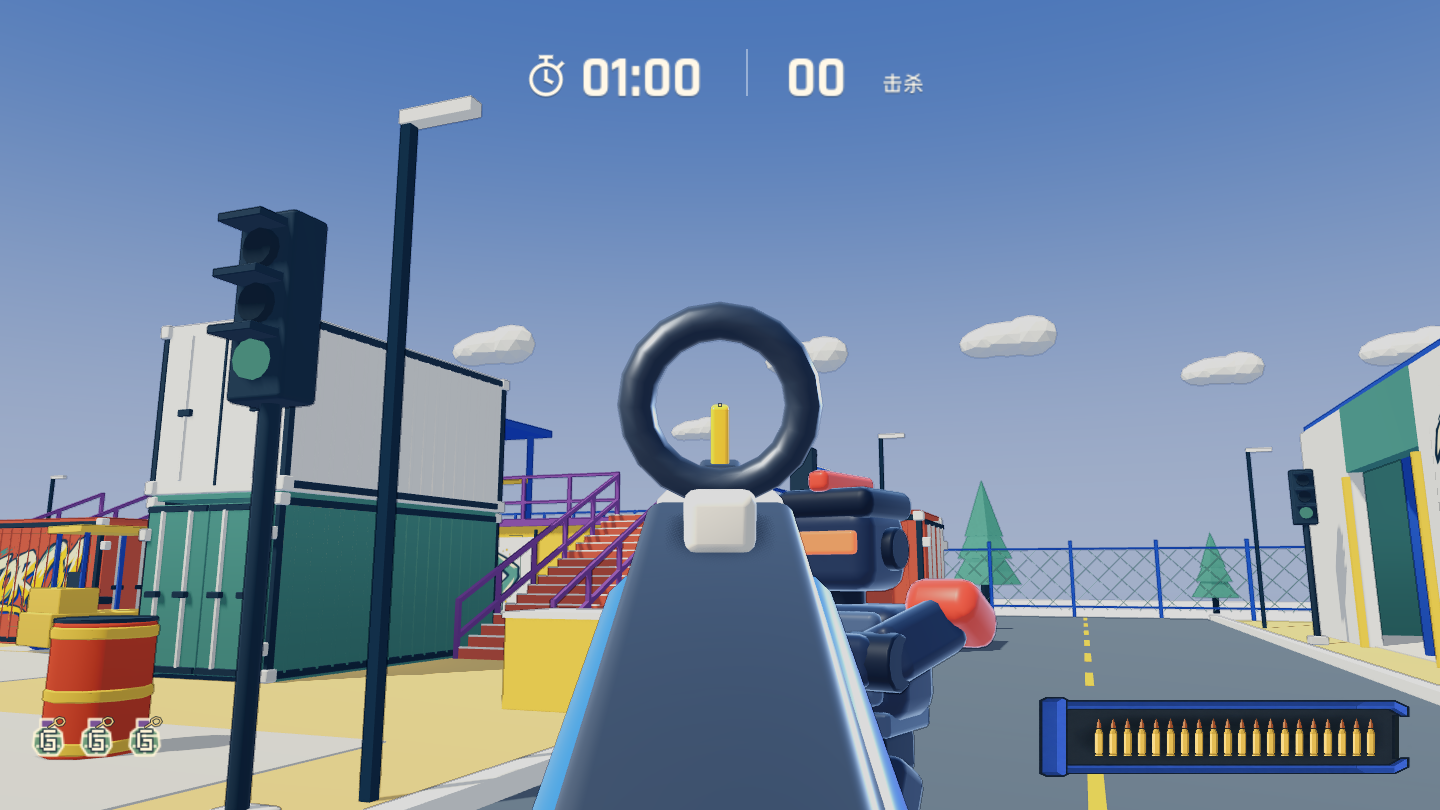
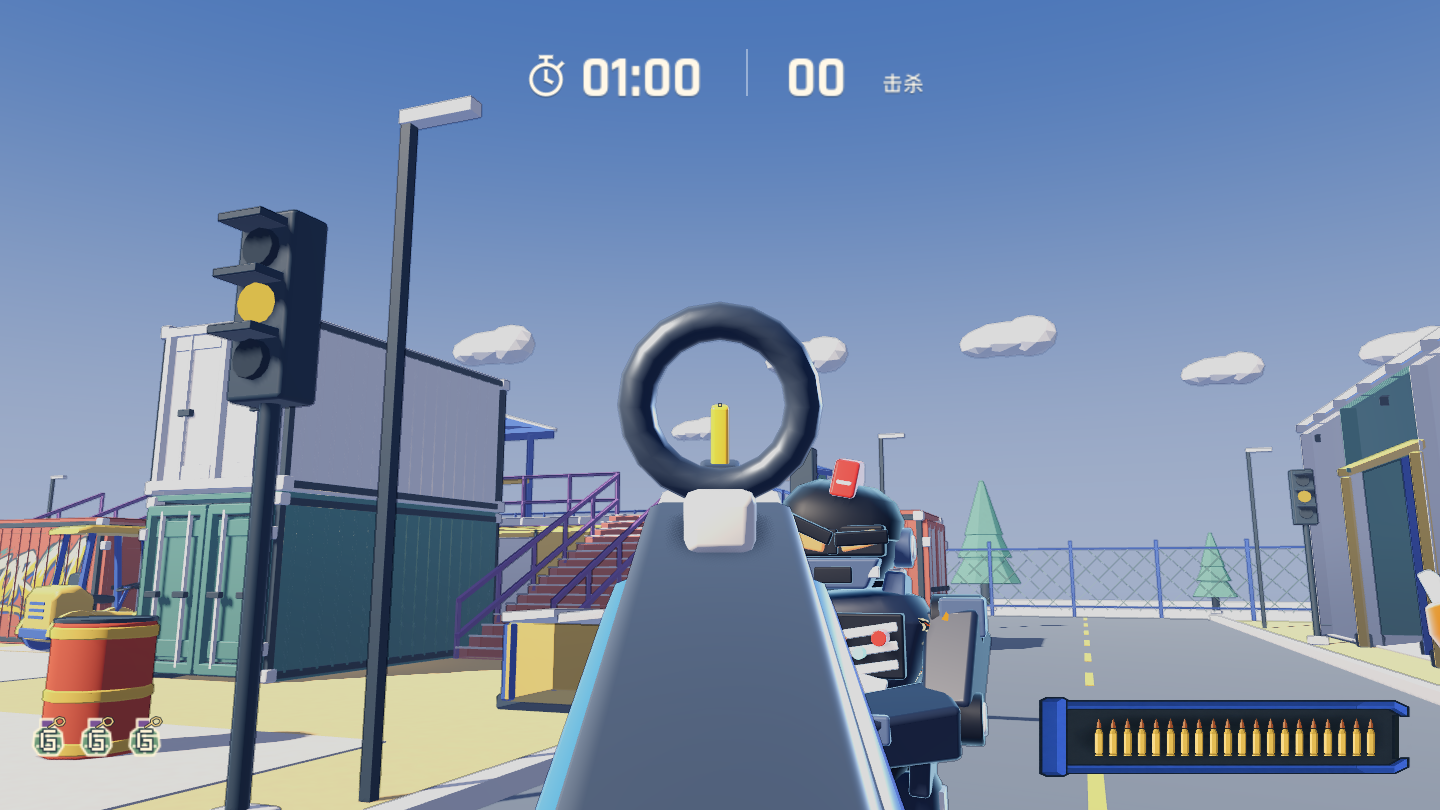
Document Scheme A toy mecha overhaul and non-headshot damage comparisons

diff --git a/docs/art/toy/actors-mecha/README.md b/docs/art/toy/actors-mecha/README.md
@@ -1,0 +1,71 @@
+# 反派玩具机甲重构与非爆头战损反馈
+
+日期：2026-11-13，分支：`toy`（仅本地客户端，不发布 Web）。针对上一轮曲面重建过度简化为圆滑胶囊块、以及单发非爆头命中后缺少可见战损状态的问题，按方案 A（黑曜重装卫兵 + 狂飙剃刀猎犬）完成模型重构与四层战损反馈落地。
+
+---
+
+## 一、方案 A 设定稿
+
+| 远程步枪兵：「黑曜重装卫兵」 | 近战突击兵：「狂飙剃刀猎犬」 |
+| --- | --- |
+| ![步枪兵设定稿](concept-rifleman-enforcer.png) | ![突击兵设定稿](concept-rusher-stalker.png) |
+
+---
+
+## 二、建模与绑定升级（`tools/toy_blocks.py`、`tools/build_toy_actors.py`）
+
+新增中心原点超椭圆曲面壳体构造器 `sculpt_loft()`、微锥斜切块 `wedge()`、轮廓挤出板 `plate_profile()`、锥度肢体 `taper_limb()` 与带双端浅色卡扣盖的外露圆柱关节鼓 `joint_drum()`，在不改变头部判定球（`y = 1.70`）、身体胶囊碰撞与开火点（`(.22, 1.12, -.58)`）的前提下补齐机甲层次：
+
+![改造前后双角色同机位对比（左：简化版 / 右：方案 A 机甲版）](compare-before-after.png)
+
+- **远程步枪兵（`assets/models/toy/enemy.glb`）：**
+  - **头盔与面部：** 弧面战术重盔配下压 V 字怒眉檐、鼻梁隔断双裂隙炽红眼罩、机械下颚呼吸栅、双侧圆柱耳部传感鼓与高耸绯红冠脊。
+  - **躯干与背包：** 高领防爆护颈圈、钛灰胸甲配倒三角炽红反应炉与奶油白领口锁扣、腰肋外露双液压阻尼杆、战术弹药包腰带，背部升级双联装动力电池仓、斜向百叶散热口与短天线。
+  - **四肢与持枪同步：** 绯红弧面大肩盾配奶油白下缘卡扣圈；喇叭口重装护胫增加钛灰前甲与绯红踝部推进饰块；修复行进时双手与脉冲步枪脱节的问题，双臂与枪身在跑动中保持同步微幅颠簸。
+- **近战突击兵（`assets/models/toy/rusher.glb`、`rusher_blade.glb`）：**
+  - **头盔与身形：** 全包覆安全橙前掠鲨鱼头盔、深灰内凹面罩、上挑凶狠红光眼罩与后掠双尾鳍；V 字宽肩收束至外露液压活塞细腰。
+  - **非对称近战武装与推进器：** 左前臂挂载带发光青色光环的小型能量圆盾；右手换装带深灰阶梯机械刀脊的宽幅弧形青色电浆战刀；背部与髋部两侧配发光橙金喷口，足部改为三趾机械利爪靴。
+
+---
+
+## 三、单发非爆头战损反馈修复与强化
+
+### 根因定位
+
+1. **局部坐标偏移导致裂痕着色器全透明：** 上一轮 `armor_loft` 将网格原点留在脚底 `(0, 0, 0)`，顶点 `VERTEX.y` 落在 `1.13`–`1.53`，偏离 `armor_hit.gdshader` 预期的局部中心 `y ≈ 0`，导致闪白结束后裂痕 `ALPHA = 0`。
+2. **突击兵胸甲节点漏挂：** `enemy.gd` 仅向 `Torso` 和 `Vest` 挂接 `armor_hit`，未覆盖突击兵的 `ChestPlate` 及肩甲等子部件。
+
+### 四层战损表现（单发身体命中后剩余 `1 HP`）
+
+1. **受击闪光与后仰：** `0.16` 秒高亮暖金受击闪白与上身受击后仰。
+2. **彩漆装甲碎片迸射（`spawn_armor_chips`）：** 命中瞬间沿弹着方向弹出 `9` 块对应阵营配色的塑料护甲残片落地弹跳，伴随火花闪光。
+3. **真实 3D 外甲崩落与破损件替换：**
+   - **步枪兵：** 左侧绯红大肩盾（`LeftPad` + `LeftPadTrim`）整块崩飞露出内部深色机械肩座，右侧肩盾歪斜，完整胸甲切换为 3D 破损胸甲 `BrokenVest`（左胸缺口露出内部金属肋条与断裂发光导管），头盔震歪。
+   - **突击兵：** 奶油白前胸板 `ChestPlate`、左侧背翼 `LeftFin` 与左侧头盔尾鳍 `LeftHorn` 崩落，直接露出胸腔内部深色机械肋架、过载橙色反应炉与断裂青色导能管。
+4. **非对称焦黑弹坑裂痕与持续电火花：** 重写 [`assets/shaders/armor_hit.gdshader`](../../../../assets/shaders/armor_hit.gdshader)，绘制偏心焦黑弹坑、奶油色掉漆边缘与脉动熔岩电弧裂纹；存活于 `1 HP` 期间胸口破损处每隔约 `0.45` 秒迸出短路火花。
+
+| 受击瞬间护甲碎片迸射 | 完整状态 vs 单发身体命中后 1 HP 持续战损 |
+| --- | --- |
+| ![受击瞬间碎片迸射](../actors/body-hit-flash.png) | ![完整与战损对比](compare-intact-damaged.png) |
+
+---
+
+## 四、资源预算与自动化验证
+
+| 模型 | 网格数 | 三角面数 |
+| --- | ---: | ---: |
+| `enemy.glb`（含隐藏战损胸甲 `BrokenVest`） | `49` | `16,582` |
+| `rusher.glb` | `29` | `13,290` |
+| `rusher_blade.glb` | `4` | `700` |
+| `rifle.glb` | `9` | `3,692` |
+
+已通过的自动化与实机渲染检查（尚未进行人工完整对局手感试玩）：
+
+- `godot --headless --path . --editor --import`
+- `godot --headless --path . --script tests/rules_test.gd`
+- `godot --headless --path . --script tests/aim_sights_check.gd`
+- `python3 tools/qa_run.py --fixed-fps 60 -- --qa --combat`（含新增 `COMBAT_BODY_DAMAGE_PASS`：校验步枪兵与突击兵单发身体命中后剩余 `1 HP`、碎片特效生成、外甲崩落隐藏、破损内构显现与着色器裂痕状态）
+- `python3 tools/qa_run.py --fixed-fps 60 -- --qa --dodge`
+- `python3 tools/qa_run.py --fixed-fps 60 -- --qa --enemy-accuracy`
+- `python3 tools/qa_run.py --fixed-fps 60 -- --qa --damage-feedback`
+- `godot --path . --script tests/toy_actor_capture.gd`（更新 `pair.png`、`walk-pose.png`、`body-hit-flash.png`、`body-damage.png`、`readability-15m.png`、`readability-25m.png`）

diff --git a/docs/art/toy/README.md b/docs/art/toy/README.md
@@ -144,3 +144,7 @@ godot --headless --path . --script tools/maps/apply_toy_kit.gd
 ## 敌人主体重建
 
 针对上一轮轮廓变化不足的反馈，进一步重建头盔、躯干和四肢曲面。见 [同机位前后对比](actors-rebuild/comparison.html) 与 [实现和验证记录](actors-rebuild/README.md)。
+
+## 方案 A 反派玩具机甲与非爆头战损
+
+按方案 A（「黑曜重装卫兵」与「狂飙剃刀猎犬」）补齐曲面装甲内的机械关节、怒眉裂隙眼、胸口反应炉、左腕能量圆盾与宽刃电浆刀，并修复及强化单发非爆头命中的 3D 崩甲与电弧裂痕战损。详见 [设定稿与实机战损对比](actors-mecha/README.md)。
